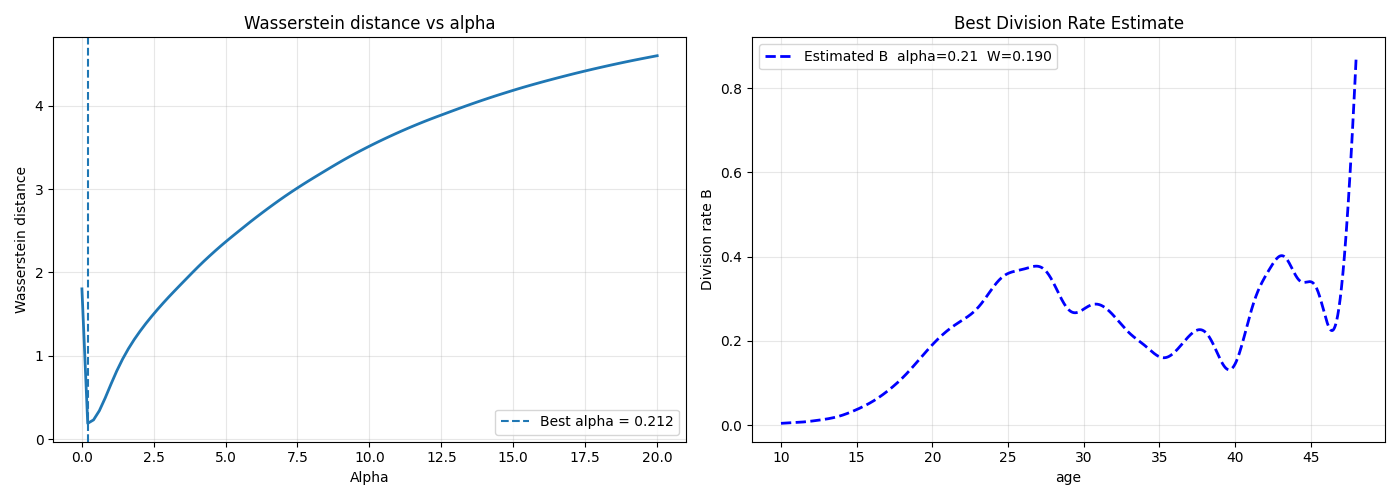
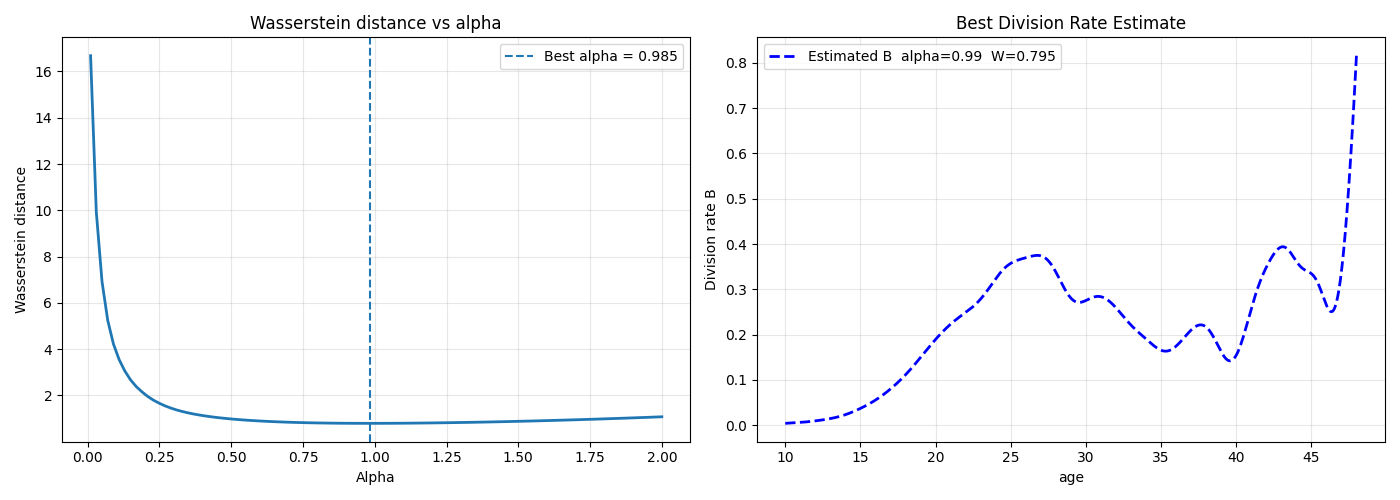
still pb with size estimator

diff --git a/tmp_estimators.py b/tmp_estimators.py
@@ -10,7 +10,7 @@ from estimators import B_lineage_age, B_lineage_size
 
 # we want to optimize the kernel regression with cdf to minimize wasserstein distance.abs
 
-def grid_search_alpha(observations, estimator, alpha_grid, simulator, growth_rate, v_max, Xbar):
+def grid_search_alpha(observations, estimator, alpha_grid, simulator, growth_rate, v_max, Xbar, age_or_size):
     obs = np.asarray(observations)
     results=[]
     best_alpha=None
@@ -18,8 +18,9 @@ def grid_search_alpha(observations, estimator, alpha_grid, simulator, growth_rat
     for alpha in tqdm(alpha_grid):
         np.random.seed(42) #same randomness for all samples
         B_hat = estimator(obs, alpha)[1] #[1] for function instead of np.array
-        simulated_data = simulator(Xbar=Xbar, v_max=v_max, B_func=B_hat, growth_rate=growth_rate, num_samples=len(obs))[:,0]
-        dist = wasserstein_distance(obs, simulated_data) #/ np.std(obs)
+        index = 0 if age_or_size=="age" else 2
+        simulated_data = simulator(Xbar=Xbar, v_max=v_max, B_func=B_hat, growth_rate=growth_rate, num_samples=len(obs), burn_in=0)[:,index]
+        dist = wasserstein_distance(obs, simulated_data) 
         results.append(dist)
 
         if dist < min_dist:
@@ -28,7 +29,7 @@ def grid_search_alpha(observations, estimator, alpha_grid, simulator, growth_rat
             Best_B_hat = B_hat
     print("minimum distance:", min_dist)
     print("best alpha:", best_alpha)
-        
+    
     return best_alpha, np.asarray(results), Best_B_hat
 
 
@@ -40,57 +41,65 @@ if __name__ == "__main__":
     PATH_LIN = "data/lin_Lydia2901_new_MDJ_ad_sb_sd.txt"
     lin = pd.read_csv(PATH_LIN, header=None, names=["ad", "sb", "sd"])
     real_A = lin["ad"]
-    scale_age = np.std(real_A)
-    real_A_normalized = real_A / scale_age
     real_Xb = lin["sb"]
-    scale_size = np.std(real_Xb)
-    real_Xb_normalized = real_Xb / scale_size
     real_Xd = lin["sd"]
-    a_max = np.max(real_A) / scale_age
-    Xbar = np.mean(real_Xb) / scale_size
-    x_max = np.max(real_Xd) / scale_size
+    a_max = np.max(real_A)
+    Xbar = np.mean(real_Xb)
+    x_max = np.max(real_Xd) 
 
     growth_rate = 0.032 #according to regression
-    alpha_grid = np.linspace(0.01, 20, 100)
+    alpha_grid = np.linspace(0.01, 2, 101)
 
 
-    
 
     if test_age:
         #  (we can add the other plots to compare all the distributions!!)
-        best_alpha, dist_hist, Best_B_hat_normalized = grid_search_alpha(real_A_normalized, B_lineage_age, alpha_grid, simulate_lineage_age, growth_rate, a_max, Xbar)
+        best_alpha, dist_hist, Best_B_hat = grid_search_alpha(real_A, B_lineage_age, alpha_grid, simulate_lineage_age, growth_rate, a_max, Xbar, "age")
         output_path = "7_kernel_lineage_age.png"
-        Best_B_hat = lambda a: Best_B_hat_normalized(a / scale_age) / scale_age #un-normalized division rate
         plot_main_results(alpha_grid, dist_hist, best_alpha, real_A, Best_B_hat, output_path, "age")
-
-        synthetic_data = simulate_lineage_age(Xbar*scale_age, a_max*scale_age, Best_B_hat, growth_rate, 2000)
+        
+        np.random.seed(42)
+        synthetic_data = simulate_lineage_age(Xbar, a_max, Best_B_hat, growth_rate, 2000)
         synthetic_A = synthetic_data[:,0]
         synthetic_Xb = synthetic_data[:,1]
         synthetic_Xd = synthetic_data[:,2]
         synthetic_A_max = np.round(np.max(synthetic_A),3)
         synthetic_Xbar = np.round(np.mean(synthetic_Xb), 3)
-        print("real a_max:", a_max*scale_age, "/ real X_bar:", Xbar*scale_age)
+        print("real a_max:", a_max, "/ real X_bar:", Xbar)
         print("fake a_max:", synthetic_A_max, "/ fake Xbar:", synthetic_Xbar)
 
+        dist_age = np.round(wasserstein_distance(real_A, synthetic_A), 3)
+        dist_sb = np.round(wasserstein_distance(real_Xb, synthetic_Xb), 3)
+        dist_sd = np.round(wasserstein_distance(real_Xd, synthetic_Xd), 3)
+        print("Summary: distance wrt Age:", dist_age)
+        print("distance wrt Birth Size:", dist_sb) 
+        print("distance wrt Division Size:", dist_sd)
 
         output_path = "7_synthetic_lin_age_model.png"
-
         plot_simulation_comparison(real_A, real_Xb, real_Xd, synthetic_A, synthetic_Xb, synthetic_Xd, output_path)
     
+
     if test_size:
-        best_alpha, dist_hist, Best_B_hat_normalized = grid_search_alpha(real_Xb_normalized, B_lineage_size, alpha_grid, simulate_lineage_size, growth_rate, x_max, Xbar)
+        best_alpha, dist_hist, Best_B_hat_normalized = grid_search_alpha(real_Xb, B_lineage_size, alpha_grid, simulate_lineage_size, growth_rate, x_max, Xbar, "size")
         output_path = "7_kernel_lineage_size.png"
-        Best_B_hat = lambda x: Best_B_hat_normalized(x / scale_size) / scale_size #un-normalized division rate
         plot_main_results(alpha_grid, dist_hist, best_alpha, real_Xb, Best_B_hat, output_path, "size")
         
-        synthetic_size_data = simulate_lineage_size(Xbar*scale_size, Best_B_hat, growth_rate, 2000, x_max*scale_size, burn_in=200)
+        np.random.seed(42)
+        synthetic_size_data = simulate_lineage_size(Xbar, Best_B_hat, growth_rate, 2000, x_max, burn_in=200)
         synthetic_A = synthetic_size_data[:,0]
         synthetic_Xb = synthetic_size_data[:,1]
         synthetic_Xd = synthetic_size_data[:,2]
         synthetic_A_max = np.round(np.max(synthetic_A),3)
         synthetic_Xbar = np.round(np.mean(synthetic_Xb), 3)
-        print("real a_max:", a_max*scale_age, "/ real X_bar:", Xbar*scale_size)
+        print("real a_max:", a_max, "/ real X_bar:", Xbar)
         print("fake a_max:", synthetic_A_max, "/ fake Xbar:", synthetic_Xbar)
-        
-        output_path = 'synthetic_lin_size_model.png'
+
+        dist_age = np.round(wasserstein_distance(real_A, synthetic_A), 3)
+        dist_sb = np.round(wasserstein_distance(real_Xb, synthetic_Xb), 3)
+        dist_sd = np.round(wasserstein_distance(real_Xd, synthetic_Xd), 3)
+        print("Summary: distance wrt Age:", dist_age)
+        print("distance wrt Birth Size:", dist_sb) 
+        print("distance wrt Division Size:", dist_sd)
+                
+        output_path = '7_synthetic_lin_size_model.png'
         plot_simulation_comparison(real_A, real_Xb, real_Xd, synthetic_A, synthetic_Xb, synthetic_Xd, output_path)

diff --git a/plots.py b/plots.py
@@ -92,7 +92,7 @@ def plot_main_results(alpha_grid, dist_hist, best_alpha, real_data, Best_B_hat, 
     # Best B_hat
     axes[1].plot(points, Best_B_hat(points), color="blue", lw=2, ls="--",
                  label=f"Estimated B  alpha={best_alpha:.2f}  W={min_dist:.3f}")
-    axes[1].set_title("Best Division Rate Estimate")
+    axes[1].set_title("Best division rate estimate")
     axes[1].set_xlabel(f"{age_or_size}")
     axes[1].set_ylabel("Division rate B")
     axes[1].grid(alpha=0.3)

diff --git a/estimators.py b/estimators.py
@@ -26,7 +26,6 @@ def B_lineage_age(observations, alpha):
     for a in a_grid:
         z = (a - observations) / alpha 
         numer = np.sum(gaussian_kernel(a - obs, alpha))
-        #denom = max( np.sum(obs >= a), omega_n)
         denom = np.sum(1-norm.cdf(z)) #with cdf so its never equal to zero
         numer_list.append(numer)
         denom_list.append(denom)
